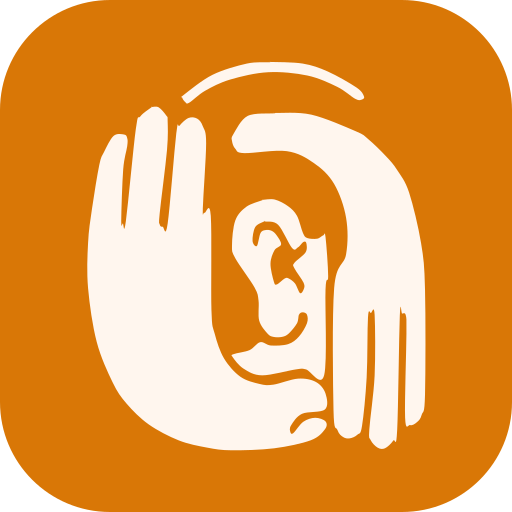
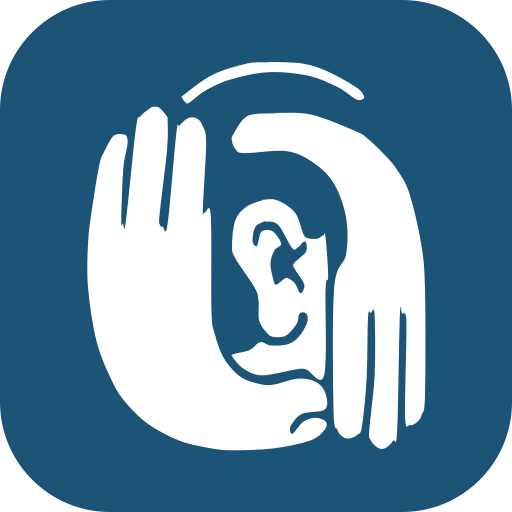
El isotipo pasa a blanco sobre azul hondo (#448)
Mismo dibujo (manos y oreja) en los colores actuales: ícono de la app,
arranque en Android, favicon y logo chico del encabezado. PNG e .ico
regenerados con scripts/build-icons.mjs.

Claude-Session: https://claude.ai/code/session_01Ps7fRxv7eBv1KuPVgdee6t

diff --git a/frontend/components/Logo.tsx b/frontend/components/Logo.tsx
@@ -9,8 +9,10 @@
  * `LogoGlyph` es sólo el trazo (mano + oreja), sin tile de fondo — se tiñe
  * del color pedido vía CSS mask (`logo-figure.svg` sólo aporta la silueta
  * en su canal alfa, el fill del SVG es irrelevante para una máscara). Lo
- * reusa SplashScreen/EmptyState sobre superficie neutra. `LogoMark` agrega
- * el tile naranja ya horneado (uso estándar: Navbar, favicon/app icons).
+ * reusa EmptyState sobre superficie neutra. `LogoMark` agrega el tile ya
+ * horneado (uso estándar: Navbar, favicon/app icons): azul hondo #1c5478 con
+ * la figura blanca desde el 2026-10-19 (era ámbar con crema), hasta que haya
+ * un isotipo nuevo.
  * `Logo` agrega el wordmark y es el default export que ya consumen Navbar,
  * login/register/recuperar/restablecer y la landing.
  */

diff --git a/docs/historial/2026-10-19-isotipo-azul.md b/docs/historial/2026-10-19-isotipo-azul.md
@@ -1,0 +1,23 @@
+# El isotipo pasa a blanco sobre azul hondo (#PR)
+
+**Pedido:** Julieta, 2026-10-19. Al abrir la app instalada, Android muestra
+un instante el ícono de la app (eso no lo controla la web), y era el
+isotipo crema sobre ámbar: "desentona con lo nuevo". Se probó cambiar el
+ícono por el «oído» fileteado y por la palabra plana con la tilde ámbar;
+decidió dejar el isotipo de siempre hasta tener uno nuevo, pero en los
+colores actuales. Entre azul hondo sobre cielo, crema sobre noche azul y
+blanco sobre azul hondo, eligió **blanco sobre azul hondo**.
+
+**Qué ve el usuario:** el ícono de la app (pantalla del celular, arranque
+en Android, iPhone, pestaña del navegador) y el logo chico del encabezado
+dentro de la app pasan a la mano y la oreja en blanco sobre `#1C5478`.
+
+**Qué cambió (técnico):** `public/logo-mark.svg`, `logo-maskable.svg` y
+`logo.svg` cambian `#d97706` → `#1c5478` y `#fff6ee` → `#ffffff`; los PNG y
+el `favicon.ico` se regeneraron con `node scripts/build-icons.mjs`.
+Comentario de `components/Logo.tsx` y `docs/design-system/marca-hoy.md`
+actualizados.
+
+**Ojo:** en un celular con la app ya instalada, el ícono nuevo aparece al
+desinstalarla y volver a instalarla (Android actualiza solo, pero puede
+tardar días).

diff --git a/docs/design-system/marca-hoy.md b/docs/design-system/marca-hoy.md
@@ -23,8 +23,11 @@ Buenos Aires, el papel de la comanda y el filete de los carteles de bodegón.
    - `marca` (sólo la palabra): encabezado de la landing;
    - `cinta` («¡Oído!»): la comanda.
    No va en ningún otro lugar ni con otra palabra.
-4. **Isotipo provisorio:** el actual (`public/logo-mark.svg`) es sólo el
-   ícono de la app (pantalla del celular, pestaña). Falta diseñar uno nuevo.
+4. **Isotipo provisorio:** el de siempre (manos y oreja, `public/logo-mark.svg`)
+   en **blanco sobre azul hondo `#1C5478`** desde el 2026-10-19 (era crema
+   sobre ámbar). Es el ícono de la app (pantalla del celular, arranque en
+   Android, pestaña) y el logo chico del encabezado dentro de la app. Falta
+   diseñar uno nuevo.
 5. **Modo oscuro = noche azul** (lienzo `#0D131A`, tarjeta `#151D26`, grises
    fríos, brillo celeste). Nada de café ni resplandor naranja.
 6. Barra del celular (`theme-color`) blanca en claro, noche azul en oscuro.
